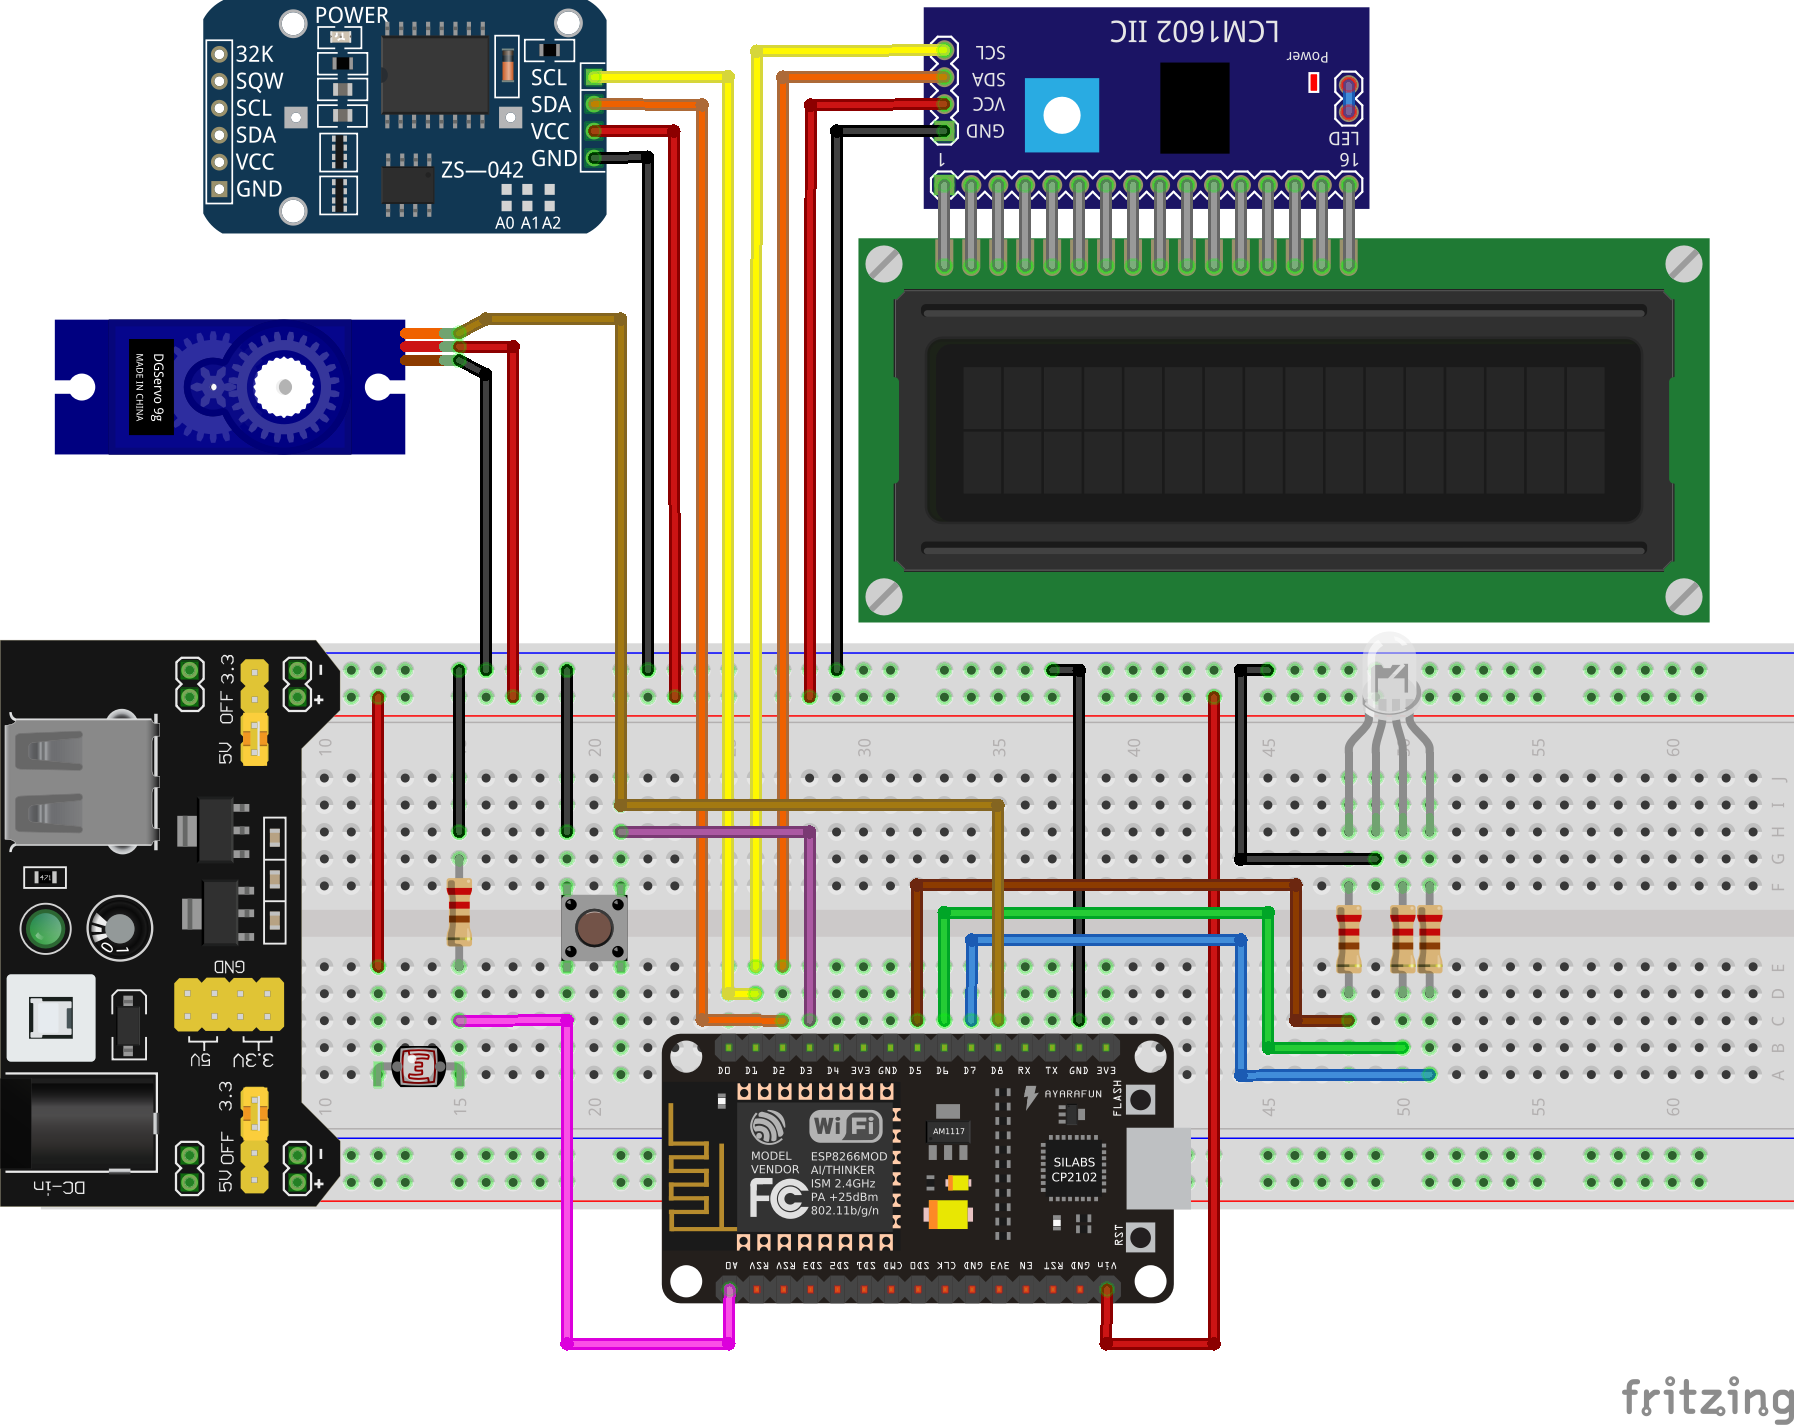
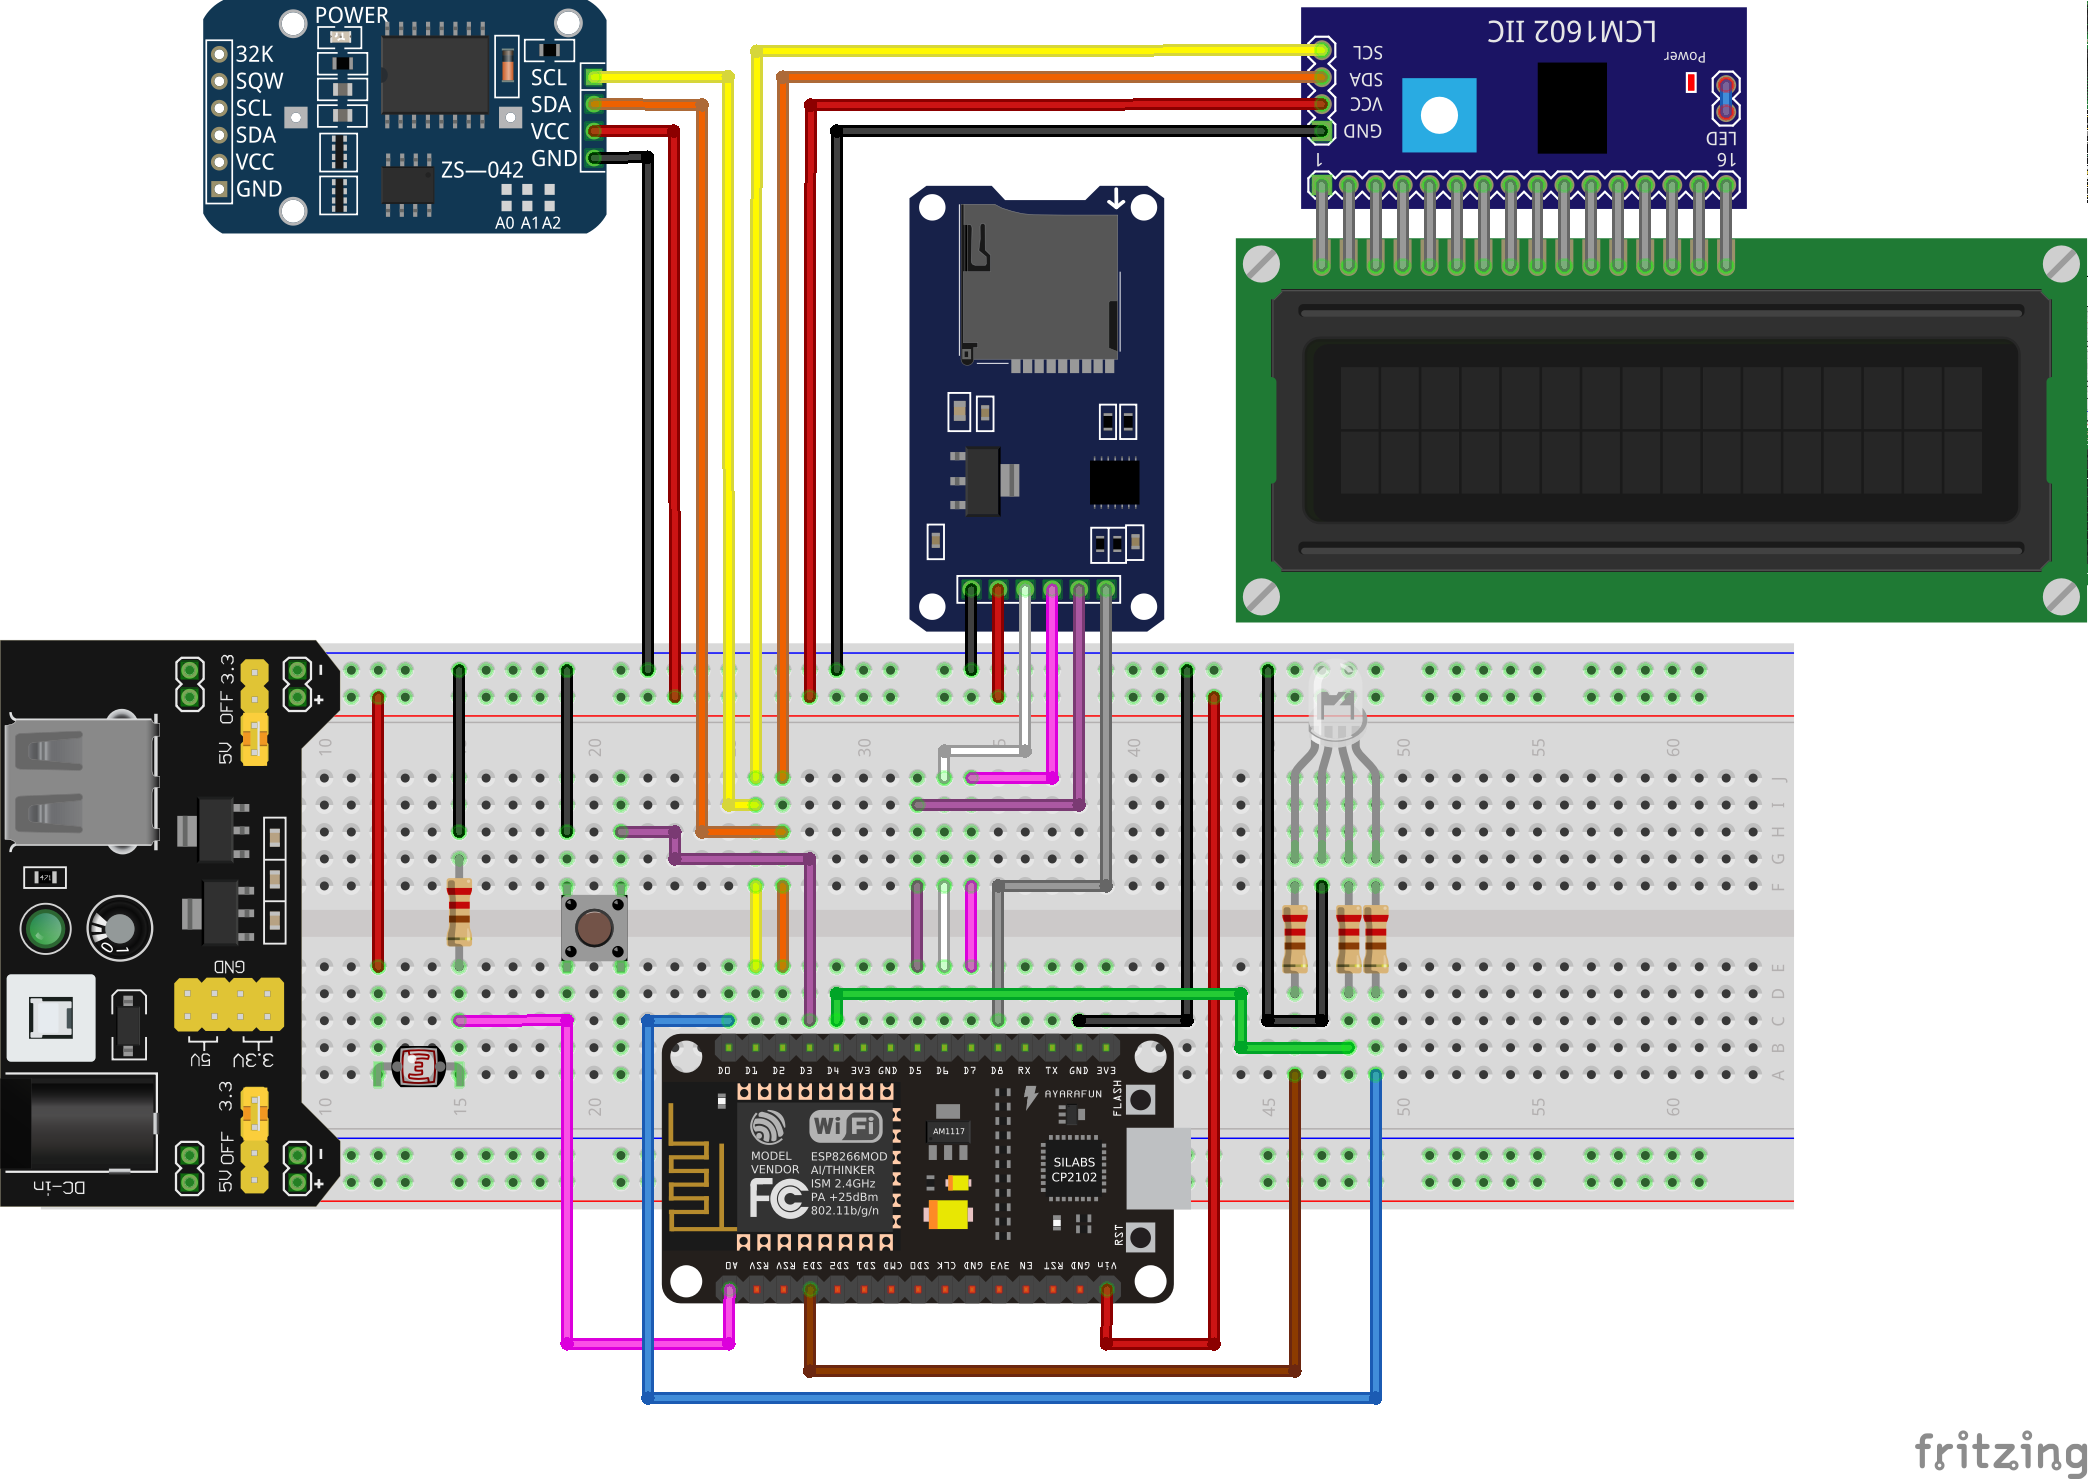
[REFACTOR] Removed Servo; Added Micro SD; Changed pins for LED

diff --git a/dailyTemperature.h b/dailyTemperature.h
@@ -29,11 +29,11 @@ const char* cityid = "702550"; // Lviv id for weather API
 
 class dailyTemperature {
   private:
-  byte tempCurrent = 0;
-  byte tempMorning = 0;
-  byte tempDay = 0;
-  byte tempEvening = 0;
-  byte tempNight = 0;
+  int8_t tempCurrent = 0;
+  int8_t tempMorning = 0;
+  int8_t tempDay = 0;
+  int8_t tempEvening = 0;
+  int8_t tempNight = 0;
 
   String currentWeather;
   String weatherDescription;

diff --git a/README.md b/README.md
@@ -4,13 +4,13 @@
 >* DS3231 RTC           - RTC module (Keyestudio prod., 4-pins)
 >* LCD1602              - LCD screen
 >* I2C LCD module       - I2C interfase for LCD1602
->* 5v servo 9g			- servo driver for managing light at room
+>* Micro SD SPI module  - storage running system information (PG65D)
 >* 5v-12v power supply  - power supply for YwRobot
 >* YwRobot MB-102       - power supply
 >* Breadboard           - dev board
 >* Button               - button for switching between modes
 >* RGB LED              - RGB LED for color indication
->* photocell            - photoelement to measure light intensity
+>* Photocell            - photoresistor for measuring light intensity
 >* 4x220R               - current limiting resistors for RGB LED and pulldown resistor for photocell
 >* Wires                - connection between modules and power supply
 
